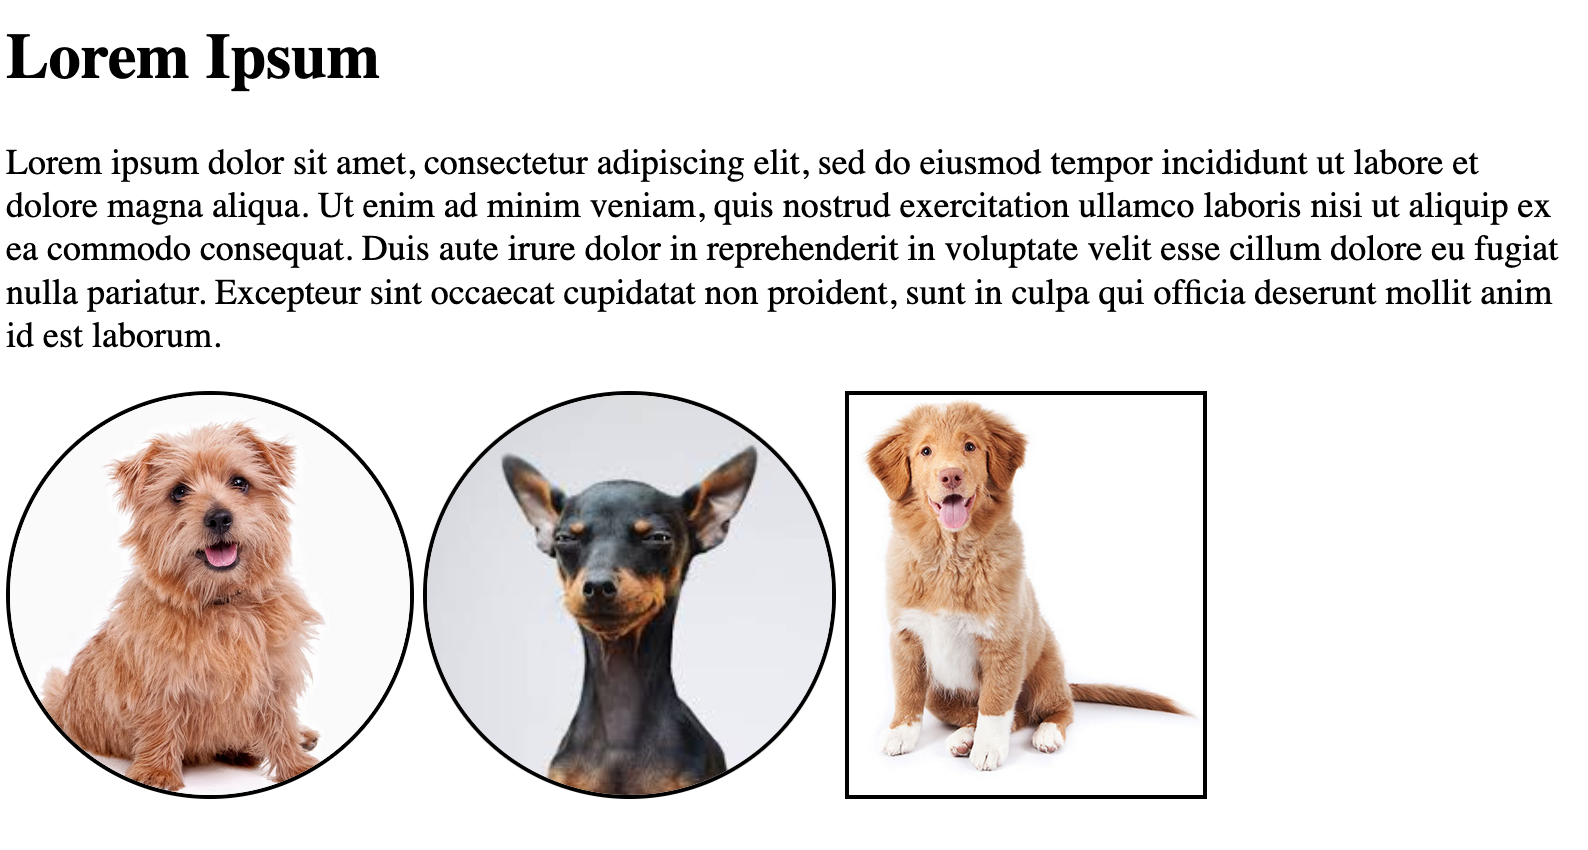
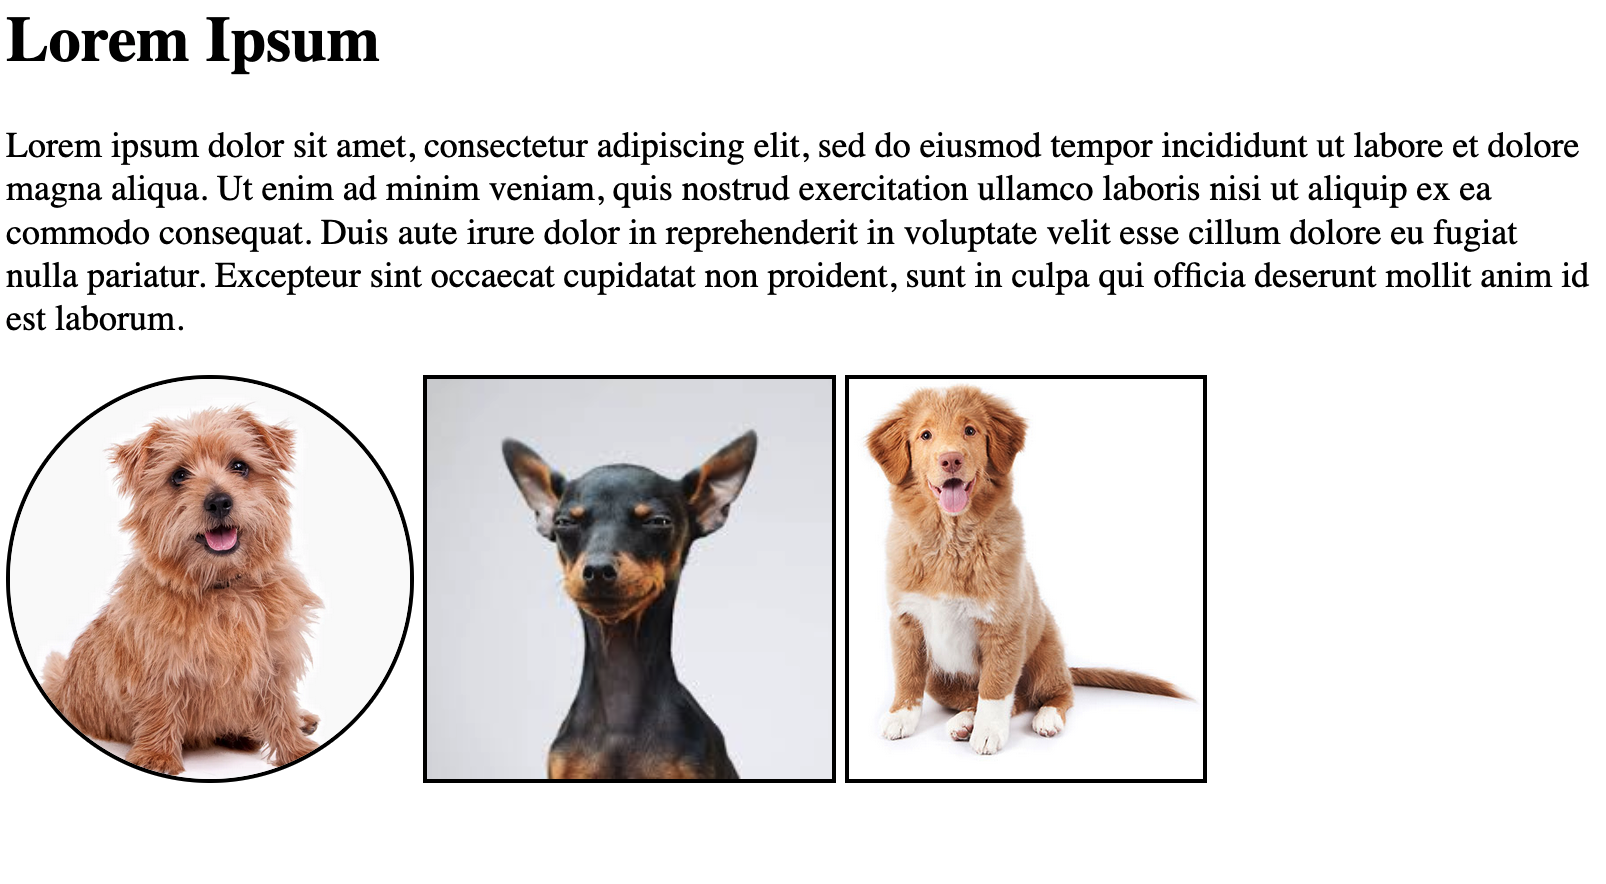
add pencode link

Changed region(s): [[0.0, 0.1529, 0.9874, 0.9482], [0.0, 0.0, 0.2469, 0.1224]]

diff --git a/blog/html-css.html b/blog/html-css.html
@@ -59,7 +59,8 @@
     <p>This works as intended because the ID is assigned to one element and the class is assigned to multple.</p>
     
     <h2>Multiple ID selectors</h2>
-    <p>The browser will apply multiple ID selectors if it has been supplied but it is best practice to use it with a single element. ID selectors have a higher hierarchy than classes and if they are both used on the same element, the ID will have priority. Below is an example of an ID with an attibute of <span class="blog-code-example">border-radius="50%"</span> being added to the first image as well as a class with an attribute of <span class="blog-code-example">border-radius="0%"</span>. Notice how the image is round. This is an exampleof why an ID should be used on a single element only and used with caution.</p>
+    <p>The browser will apply multiple ID selectors if it has been supplied but it is best practice to use it with a single element. ID selectors have a higher hierarchy than classes and if they are both used on the same element, the ID will have priority. Below is an example of an ID with an attibute of <span class="blog-code-example">border-radius="50%"</span> being added to the first image as well as a class with an attribute of <span class="blog-code-example">border-radius="0%"</span>. Notice how the image is round. This is an exampleof why an ID should be used on a single element only and used with caution.
+    Click <a href="https://codepen.io/calmorris/pen/rNwjWVB?editors=1100" target="_blank">here</a> to see an example in Codepen.</p>
     <img class='blog-image-half' src="img/html-css-blog/html-css-4.png" alt="website example">
     <p>While ID's and classes appear to function in a similar way, ID's have greater functionality. ID's are intended to be unique and as a result have added functionality. They can be used as anchor points on a page which can be hyperlinked to. A user can click on a element that has an ID as a target, which will direct the user to a specific location on the web page.</p> 
     <p>In addition, JavaScript can access selectors and because ID's are designed for single use, expects to only find one element containing an ID it has been supplied. If the same ID has been added to multiple elements on a single web page, JavaScript will not behave as programmed and may cause bugs in your code.</p>
